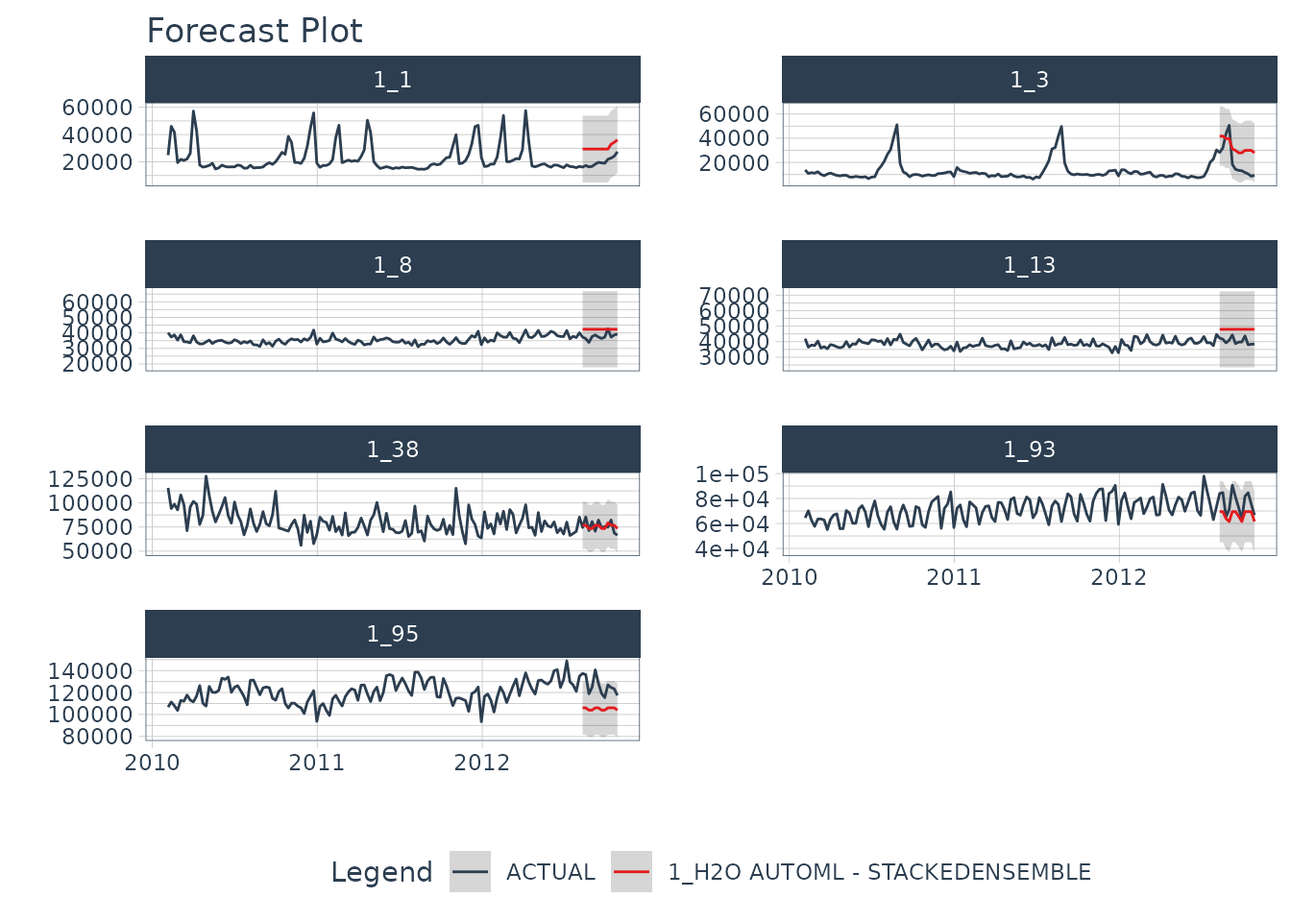
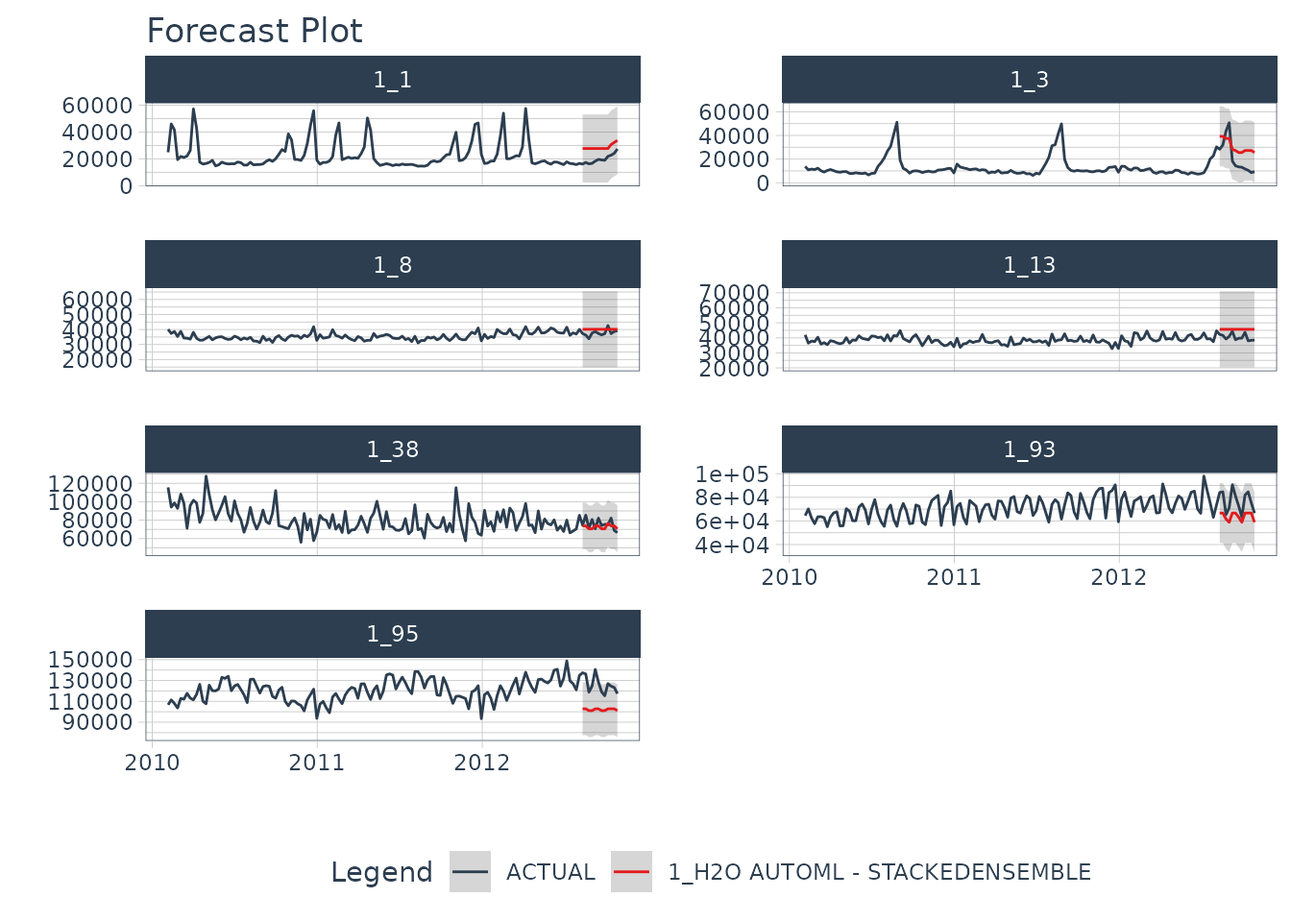
Built site for modeltime.h2o: 0.1.0@7222709

diff --git a/articles/getting-started.html b/articles/getting-started.html
@@ -167,19 +167,19 @@
 <span class="co">#&gt; H2O is not running yet, starting it now...</span>
 <span class="co">#&gt; </span>
 <span class="co">#&gt; Note:  In case of errors look at the following log files:</span>
-<span class="co">#&gt;     /tmp/RtmpBDLtlY/file43ff559d099a/h2o_runner_started_from_r.out</span>
-<span class="co">#&gt;     /tmp/RtmpBDLtlY/file43ff18661f8a/h2o_runner_started_from_r.err</span>
+<span class="co">#&gt;     /tmp/RtmpX6YemH/file44b6855ee52/h2o_runner_started_from_r.out</span>
+<span class="co">#&gt;     /tmp/RtmpX6YemH/file44b6563da7d8/h2o_runner_started_from_r.err</span>
 <span class="co">#&gt; </span>
 <span class="co">#&gt; </span>
-<span class="co">#&gt; Starting H2O JVM and connecting: ... Connection successful!</span>
+<span class="co">#&gt; Starting H2O JVM and connecting: .... Connection successful!</span>
 <span class="co">#&gt; </span>
 <span class="co">#&gt; R is connected to the H2O cluster: </span>
-<span class="co">#&gt;     H2O cluster uptime:         2 seconds 381 milliseconds </span>
+<span class="co">#&gt;     H2O cluster uptime:         2 seconds 800 milliseconds </span>
 <span class="co">#&gt;     H2O cluster timezone:       UTC </span>
 <span class="co">#&gt;     H2O data parsing timezone:  UTC </span>
 <span class="co">#&gt;     H2O cluster version:        3.32.0.1 </span>
-<span class="co">#&gt;     H2O cluster version age:    5 months and 4 days !!! </span>
-<span class="co">#&gt;     H2O cluster name:           H2O_started_from_R_runner_jjy202 </span>
+<span class="co">#&gt;     H2O cluster version age:    5 months and 6 days !!! </span>
+<span class="co">#&gt;     H2O cluster name:           H2O_started_from_R_runner_nzs383 </span>
 <span class="co">#&gt;     H2O cluster total nodes:    1 </span>
 <span class="co">#&gt;     H2O cluster total memory:   1.51 GB </span>
 <span class="co">#&gt;     H2O cluster total cores:    2 </span>
@@ -230,13 +230,13 @@
 <span id="cb6-9"><a href="#cb6-9"></a>  <span class="op">|</span><span class="st">                                                                            </span></span>
 <span id="cb6-10"><a href="#cb6-10"></a><span class="st">  </span><span class="er">|</span><span class="st">                                                                      </span><span class="er">|</span><span class="st">   </span><span class="dv">0</span>%</span>
 <span id="cb6-11"><a href="#cb6-11"></a>  <span class="op">|</span><span class="st">                                                                            </span></span>
-<span id="cb6-12"><a href="#cb6-12"></a><span class="st">  </span><span class="er">|====</span><span class="st">                                                                  </span><span class="er">|</span><span class="st">   </span><span class="dv">6</span>%</span>
+<span id="cb6-12"><a href="#cb6-12"></a><span class="st">  </span><span class="er">|===</span><span class="st">                                                                   </span><span class="er">|</span><span class="st">   </span><span class="dv">5</span>%</span>
 <span id="cb6-13"><a href="#cb6-13"></a>  <span class="op">|</span><span class="st">                                                                            </span></span>
-<span id="cb6-14"><a href="#cb6-14"></a><span class="st">  </span><span class="er">|===================</span><span class="st">                                                   </span><span class="er">|</span><span class="st">  </span><span class="dv">27</span>%</span>
+<span id="cb6-14"><a href="#cb6-14"></a><span class="st">  </span><span class="er">|==================</span><span class="st">                                                    </span><span class="er">|</span><span class="st">  </span><span class="dv">25</span>%</span>
 <span id="cb6-15"><a href="#cb6-15"></a>  <span class="op">|</span><span class="st">                                                                            </span></span>
-<span id="cb6-16"><a href="#cb6-16"></a><span class="st">  </span><span class="er">|=================================</span><span class="st">                                     </span><span class="er">|</span><span class="st">  </span><span class="dv">47</span>%</span>
+<span id="cb6-16"><a href="#cb6-16"></a><span class="st">  </span><span class="er">|================================</span><span class="st">                                      </span><span class="er">|</span><span class="st">  </span><span class="dv">46</span>%</span>
 <span id="cb6-17"><a href="#cb6-17"></a>  <span class="op">|</span><span class="st">                                                                            </span></span>
-<span id="cb6-18"><a href="#cb6-18"></a><span class="st">  </span><span class="er">|===============================================</span><span class="st">                       </span><span class="er">|</span><span class="st">  </span><span class="dv">67</span>%</span>
+<span id="cb6-18"><a href="#cb6-18"></a><span class="st">  </span><span class="er">|==============================================</span><span class="st">                        </span><span class="er">|</span><span class="st">  </span><span class="dv">66</span>%</span>
 <span id="cb6-19"><a href="#cb6-19"></a>  <span class="op">|</span><span class="st">                                                                            </span></span>
 <span id="cb6-20"><a href="#cb6-20"></a><span class="st">  </span><span class="er">|======================================================================|</span><span class="st"> </span><span class="dv">100</span>%</span>
 <span id="cb6-21"><a href="#cb6-21"></a><span class="co">#&gt; </span></span>
@@ -245,22 +245,22 @@
 <span id="cb6-24"><a href="#cb6-24"></a>  <span class="op">|</span><span class="st">                                                                            </span></span>
 <span id="cb6-25"><a href="#cb6-25"></a><span class="st">  </span><span class="er">|======================================================================|</span><span class="st"> </span><span class="dv">100</span>%</span>
 <span id="cb6-26"><a href="#cb6-26"></a><span class="co">#&gt;                                           model_id mean_residual_deviance</span></span>
-<span id="cb6-27"><a href="#cb6-27"></a><span class="co">#&gt; 1 StackedEnsemble_AllModels_AutoML_20210313_134133              420778174</span></span>
-<span id="cb6-28"><a href="#cb6-28"></a><span class="co">#&gt; 2                 XGBoost_2_AutoML_20210313_134133             1002242805</span></span>
-<span id="cb6-29"><a href="#cb6-29"></a><span class="co">#&gt; 3                 XGBoost_3_AutoML_20210313_134133             1004024439</span></span>
-<span id="cb6-30"><a href="#cb6-30"></a><span class="co">#&gt; 4                 XGBoost_1_AutoML_20210313_134133             1832060096</span></span>
+<span id="cb6-27"><a href="#cb6-27"></a><span class="co">#&gt; 1 StackedEnsemble_AllModels_AutoML_20210314_215223              386531186</span></span>
+<span id="cb6-28"><a href="#cb6-28"></a><span class="co">#&gt; 2                 XGBoost_2_AutoML_20210314_215223              774274696</span></span>
+<span id="cb6-29"><a href="#cb6-29"></a><span class="co">#&gt; 3                 XGBoost_3_AutoML_20210314_215223              816368892</span></span>
+<span id="cb6-30"><a href="#cb6-30"></a><span class="co">#&gt; 4                 XGBoost_1_AutoML_20210314_215223             1817098993</span></span>
 <span id="cb6-31"><a href="#cb6-31"></a><span class="co">#&gt;       rmse        mse      mae     rmsle</span></span>
-<span id="cb6-32"><a href="#cb6-32"></a><span class="co">#&gt; 1 20512.88  420778174 15817.72 0.4505745</span></span>
-<span id="cb6-33"><a href="#cb6-33"></a><span class="co">#&gt; 2 31658.22 1002242805 21681.67 0.7980015</span></span>
-<span id="cb6-34"><a href="#cb6-34"></a><span class="co">#&gt; 3 31686.34 1004024439 21494.40 0.7868849</span></span>
-<span id="cb6-35"><a href="#cb6-35"></a><span class="co">#&gt; 4 42802.57 1832060096 32716.41 1.1025323</span></span>
+<span id="cb6-32"><a href="#cb6-32"></a><span class="co">#&gt; 1 19660.40  386531186 14937.70 0.4300007</span></span>
+<span id="cb6-33"><a href="#cb6-33"></a><span class="co">#&gt; 2 27825.79  774274696 19014.82 0.6527556</span></span>
+<span id="cb6-34"><a href="#cb6-34"></a><span class="co">#&gt; 3 28572.17  816368892 19963.71 0.6560465</span></span>
+<span id="cb6-35"><a href="#cb6-35"></a><span class="co">#&gt; 4 42627.44 1817098993 32178.74 1.1009060</span></span>
 <span id="cb6-36"><a href="#cb6-36"></a><span class="co">#&gt; </span></span>
 <span id="cb6-37"><a href="#cb6-37"></a><span class="co">#&gt; [4 rows x 6 columns]</span></span>
 <span id="cb6-38"><a href="#cb6-38"></a></span>
 <span id="cb6-39"><a href="#cb6-39"></a>model_fitted</span>
 <span id="cb6-40"><a href="#cb6-40"></a><span class="co">#&gt; parsnip model object</span></span>
 <span id="cb6-41"><a href="#cb6-41"></a><span class="co">#&gt; </span></span>
-<span id="cb6-42"><a href="#cb6-42"></a><span class="co">#&gt; Fit time:  13.7s </span></span>
+<span id="cb6-42"><a href="#cb6-42"></a><span class="co">#&gt; Fit time:  13.1s </span></span>
 <span id="cb6-43"><a href="#cb6-43"></a><span class="co">#&gt; </span></span>
 <span id="cb6-44"><a href="#cb6-44"></a><span class="co">#&gt; H2O AutoML - Stackedensemble</span></span>
 <span id="cb6-45"><a href="#cb6-45"></a><span class="co">#&gt; --------</span></span>
@@ -268,7 +268,7 @@
 <span id="cb6-47"><a href="#cb6-47"></a><span class="co">#&gt; ==============</span></span>
 <span id="cb6-48"><a href="#cb6-48"></a><span class="co">#&gt; </span></span>
 <span id="cb6-49"><a href="#cb6-49"></a><span class="co">#&gt; H2ORegressionModel: stackedensemble</span></span>
-<span id="cb6-50"><a href="#cb6-50"></a><span class="co">#&gt; Model ID:  StackedEnsemble_AllModels_AutoML_20210313_134133 </span></span>
+<span id="cb6-50"><a href="#cb6-50"></a><span class="co">#&gt; Model ID:  StackedEnsemble_AllModels_AutoML_20210314_215223 </span></span>
 <span id="cb6-51"><a href="#cb6-51"></a><span class="co">#&gt; Number of Base Models: 3</span></span>
 <span id="cb6-52"><a href="#cb6-52"></a><span class="co">#&gt; </span></span>
 <span id="cb6-53"><a href="#cb6-53"></a><span class="co">#&gt; Base Models (count by algorithm type):</span></span>
@@ -289,11 +289,11 @@
 <span id="cb6-68"><a href="#cb6-68"></a><span class="co">#&gt; H2ORegressionMetrics: stackedensemble</span></span>
 <span id="cb6-69"><a href="#cb6-69"></a><span class="co">#&gt; ** Reported on training data. **</span></span>
 <span id="cb6-70"><a href="#cb6-70"></a><span class="co">#&gt; </span></span>
-<span id="cb6-71"><a href="#cb6-71"></a><span class="co">#&gt; MSE:  166657232</span></span>
-<span id="cb6-72"><a href="#cb6-72"></a><span class="co">#&gt; RMSE:  12909.58</span></span>
-<span id="cb6-73"><a href="#cb6-73"></a><span class="co">#&gt; MAE:  11007.53</span></span>
-<span id="cb6-74"><a href="#cb6-74"></a><span class="co">#&gt; RMSLE:  0.4562975</span></span>
-<span id="cb6-75"><a href="#cb6-75"></a><span class="co">#&gt; Mean Residual Deviance :  166657232</span></span>
+<span id="cb6-71"><a href="#cb6-71"></a><span class="co">#&gt; MSE:  164435219</span></span>
+<span id="cb6-72"><a href="#cb6-72"></a><span class="co">#&gt; RMSE:  12823.23</span></span>
+<span id="cb6-73"><a href="#cb6-73"></a><span class="co">#&gt; MAE:  10518.23</span></span>
+<span id="cb6-74"><a href="#cb6-74"></a><span class="co">#&gt; RMSLE:  0.4178878</span></span>
+<span id="cb6-75"><a href="#cb6-75"></a><span class="co">#&gt; Mean Residual Deviance :  164435219</span></span>
 <span id="cb6-76"><a href="#cb6-76"></a><span class="co">#&gt; </span></span>
 <span id="cb6-77"><a href="#cb6-77"></a><span class="co">#&gt; </span></span>
 <span id="cb6-78"><a href="#cb6-78"></a><span class="co">#&gt; </span></span>
@@ -301,11 +301,11 @@
 <span id="cb6-80"><a href="#cb6-80"></a><span class="co">#&gt; ** Reported on cross-validation data. **</span></span>
 <span id="cb6-81"><a href="#cb6-81"></a><span class="co">#&gt; ** 5-fold cross-validation on training data (Metrics computed for combined holdout predictions) **</span></span>
 <span id="cb6-82"><a href="#cb6-82"></a><span class="co">#&gt; </span></span>
-<span id="cb6-83"><a href="#cb6-83"></a><span class="co">#&gt; MSE:  420778174</span></span>
-<span id="cb6-84"><a href="#cb6-84"></a><span class="co">#&gt; RMSE:  20512.88</span></span>
-<span id="cb6-85"><a href="#cb6-85"></a><span class="co">#&gt; MAE:  15817.72</span></span>
-<span id="cb6-86"><a href="#cb6-86"></a><span class="co">#&gt; RMSLE:  0.4505745</span></span>
-<span id="cb6-87"><a href="#cb6-87"></a><span class="co">#&gt; Mean Residual Deviance :  420778174</span></span></code></pre></div>
+<span id="cb6-83"><a href="#cb6-83"></a><span class="co">#&gt; MSE:  386531186</span></span>
+<span id="cb6-84"><a href="#cb6-84"></a><span class="co">#&gt; RMSE:  19660.4</span></span>
+<span id="cb6-85"><a href="#cb6-85"></a><span class="co">#&gt; MAE:  14937.7</span></span>
+<span id="cb6-86"><a href="#cb6-86"></a><span class="co">#&gt; RMSLE:  0.4300007</span></span>
+<span id="cb6-87"><a href="#cb6-87"></a><span class="co">#&gt; Mean Residual Deviance :  386531186</span></span></code></pre></div>
 <p>Finally, we predict on the test dataset:</p>
 <div class="sourceCode" id="cb7"><pre class="sourceCode r"><code class="sourceCode r"><span id="cb7-1"><a href="#cb7-1"></a><span class="kw">predict</span>(model_fitted, test_tbl)</span>
 <span id="cb7-2"><a href="#cb7-2"></a><span class="co">#&gt; </span></span>
@@ -321,16 +321,16 @@
 <span id="cb7-12"><a href="#cb7-12"></a><span class="co">#&gt; # A tibble: 84 x 1</span></span>
 <span id="cb7-13"><a href="#cb7-13"></a><span class="co">#&gt;      .pred</span></span>
 <span id="cb7-14"><a href="#cb7-14"></a><span class="co">#&gt;      &lt;dbl&gt;</span></span>
-<span id="cb7-15"><a href="#cb7-15"></a><span class="co">#&gt;  1  29357.</span></span>
-<span id="cb7-16"><a href="#cb7-16"></a><span class="co">#&gt;  2  41772.</span></span>
-<span id="cb7-17"><a href="#cb7-17"></a><span class="co">#&gt;  3  42310.</span></span>
-<span id="cb7-18"><a href="#cb7-18"></a><span class="co">#&gt;  4  47978.</span></span>
-<span id="cb7-19"><a href="#cb7-19"></a><span class="co">#&gt;  5  76800.</span></span>
-<span id="cb7-20"><a href="#cb7-20"></a><span class="co">#&gt;  6  69482.</span></span>
-<span id="cb7-21"><a href="#cb7-21"></a><span class="co">#&gt;  7 106034.</span></span>
-<span id="cb7-22"><a href="#cb7-22"></a><span class="co">#&gt;  8  29357.</span></span>
-<span id="cb7-23"><a href="#cb7-23"></a><span class="co">#&gt;  9  41772.</span></span>
-<span id="cb7-24"><a href="#cb7-24"></a><span class="co">#&gt; 10  42310.</span></span>
+<span id="cb7-15"><a href="#cb7-15"></a><span class="co">#&gt;  1  27725.</span></span>
+<span id="cb7-16"><a href="#cb7-16"></a><span class="co">#&gt;  2  39179.</span></span>
+<span id="cb7-17"><a href="#cb7-17"></a><span class="co">#&gt;  3  40141.</span></span>
+<span id="cb7-18"><a href="#cb7-18"></a><span class="co">#&gt;  4  45689.</span></span>
+<span id="cb7-19"><a href="#cb7-19"></a><span class="co">#&gt;  5  73795.</span></span>
+<span id="cb7-20"><a href="#cb7-20"></a><span class="co">#&gt;  6  66688.</span></span>
+<span id="cb7-21"><a href="#cb7-21"></a><span class="co">#&gt;  7 102829.</span></span>
+<span id="cb7-22"><a href="#cb7-22"></a><span class="co">#&gt;  8  27725.</span></span>
+<span id="cb7-23"><a href="#cb7-23"></a><span class="co">#&gt;  9  39179.</span></span>
+<span id="cb7-24"><a href="#cb7-24"></a><span class="co">#&gt; 10  40141.</span></span>
 <span id="cb7-25"><a href="#cb7-25"></a><span class="co">#&gt; # … with 74 more rows</span></span></code></pre></div>
 </div>
 <div id="modeltime-workflow" class="section level2">
@@ -423,13 +423,13 @@
 <span id="cb11-9"><a href="#cb11-9"></a>  <span class="op">|</span><span class="st">                                                                            </span></span>
 <span id="cb11-10"><a href="#cb11-10"></a><span class="st">  </span><span class="er">|</span><span class="st">                                                                      </span><span class="er">|</span><span class="st">   </span><span class="dv">0</span>%</span>
 <span id="cb11-11"><a href="#cb11-11"></a>  <span class="op">|</span><span class="st">                                                                            </span></span>
-<span id="cb11-12"><a href="#cb11-12"></a><span class="st">  </span><span class="er">|=</span><span class="st">                                                                     </span><span class="er">|</span><span class="st">   </span><span class="dv">1</span>%</span>
+<span id="cb11-12"><a href="#cb11-12"></a><span class="st">  </span><span class="er">|==</span><span class="st">                                                                    </span><span class="er">|</span><span class="st">   </span><span class="dv">3</span>%</span>
 <span id="cb11-13"><a href="#cb11-13"></a>  <span class="op">|</span><span class="st">                                                                            </span></span>
-<span id="cb11-14"><a href="#cb11-14"></a><span class="st">  </span><span class="er">|===============</span><span class="st">                                                       </span><span class="er">|</span><span class="st">  </span><span class="dv">21</span>%</span>
+<span id="cb11-14"><a href="#cb11-14"></a><span class="st">  </span><span class="er">|=================</span><span class="st">                                                     </span><span class="er">|</span><span class="st">  </span><span class="dv">24</span>%</span>
 <span id="cb11-15"><a href="#cb11-15"></a>  <span class="op">|</span><span class="st">                                                                            </span></span>
-<span id="cb11-16"><a href="#cb11-16"></a><span class="st">  </span><span class="er">|=============================</span><span class="st">                                         </span><span class="er">|</span><span class="st">  </span><span class="dv">42</span>%</span>
+<span id="cb11-16"><a href="#cb11-16"></a><span class="st">  </span><span class="er">|===============================</span><span class="st">                                       </span><span class="er">|</span><span class="st">  </span><span class="dv">44</span>%</span>
 <span id="cb11-17"><a href="#cb11-17"></a>  <span class="op">|</span><span class="st">                                                                            </span></span>
-<span id="cb11-18"><a href="#cb11-18"></a><span class="st">  </span><span class="er">|============================================</span><span class="st">                          </span><span class="er">|</span><span class="st">  </span><span class="dv">62</span>%</span>
+<span id="cb11-18"><a href="#cb11-18"></a><span class="st">  </span><span class="er">|=============================================</span><span class="st">                         </span><span class="er">|</span><span class="st">  </span><span class="dv">64</span>%</span>
 <span id="cb11-19"><a href="#cb11-19"></a>  <span class="op">|</span><span class="st">                                                                            </span></span>
 <span id="cb11-20"><a href="#cb11-20"></a><span class="st">  </span><span class="er">|======================================================================|</span><span class="st"> </span><span class="dv">100</span>%</span>
 <span id="cb11-21"><a href="#cb11-21"></a><span class="co">#&gt; </span></span>
@@ -438,15 +438,15 @@
 <span id="cb11-24"><a href="#cb11-24"></a>  <span class="op">|</span><span class="st">                                                                            </span></span>
 <span id="cb11-25"><a href="#cb11-25"></a><span class="st">  </span><span class="er">|======================================================================|</span><span class="st"> </span><span class="dv">100</span>%</span>
 <span id="cb11-26"><a href="#cb11-26"></a><span class="co">#&gt;                                           model_id mean_residual_deviance</span></span>
-<span id="cb11-27"><a href="#cb11-27"></a><span class="co">#&gt; 1 StackedEnsemble_AllModels_AutoML_20210313_134152               87547703</span></span>
-<span id="cb11-28"><a href="#cb11-28"></a><span class="co">#&gt; 2                 XGBoost_3_AutoML_20210313_134152             2198195829</span></span>
-<span id="cb11-29"><a href="#cb11-29"></a><span class="co">#&gt; 3                 XGBoost_2_AutoML_20210313_134152             2202249547</span></span>
-<span id="cb11-30"><a href="#cb11-30"></a><span class="co">#&gt; 4                 XGBoost_1_AutoML_20210313_134152             2261584439</span></span>
-<span id="cb11-31"><a href="#cb11-31"></a><span class="co">#&gt;        rmse        mse       mae     rmsle</span></span>
-<span id="cb11-32"><a href="#cb11-32"></a><span class="co">#&gt; 1  9356.693   87547703  6990.738 0.2292359</span></span>
-<span id="cb11-33"><a href="#cb11-33"></a><span class="co">#&gt; 2 46884.921 2198195829 38428.029 1.2153485</span></span>
-<span id="cb11-34"><a href="#cb11-34"></a><span class="co">#&gt; 3 46928.132 2202249547 38496.136 1.2258330</span></span>
-<span id="cb11-35"><a href="#cb11-35"></a><span class="co">#&gt; 4 47556.119 2261584439 38597.183 1.2282724</span></span>
+<span id="cb11-27"><a href="#cb11-27"></a><span class="co">#&gt; 1 StackedEnsemble_AllModels_AutoML_20210314_215241              205010876</span></span>
+<span id="cb11-28"><a href="#cb11-28"></a><span class="co">#&gt; 2                 XGBoost_3_AutoML_20210314_215241             1432960432</span></span>
+<span id="cb11-29"><a href="#cb11-29"></a><span class="co">#&gt; 3                 XGBoost_2_AutoML_20210314_215241             1802082476</span></span>
+<span id="cb11-30"><a href="#cb11-30"></a><span class="co">#&gt; 4                 XGBoost_1_AutoML_20210314_215241             2261584439</span></span>
+<span id="cb11-31"><a href="#cb11-31"></a><span class="co">#&gt;       rmse        mse       mae     rmsle</span></span>
+<span id="cb11-32"><a href="#cb11-32"></a><span class="co">#&gt; 1 14318.20  205010876  9548.185 0.2207454</span></span>
+<span id="cb11-33"><a href="#cb11-33"></a><span class="co">#&gt; 2 37854.46 1432960432 27916.280 0.9543609</span></span>
+<span id="cb11-34"><a href="#cb11-34"></a><span class="co">#&gt; 3 42450.94 1802082476 32777.797 1.0998055</span></span>
+<span id="cb11-35"><a href="#cb11-35"></a><span class="co">#&gt; 4 47556.12 2261584439 38597.183 1.2282724</span></span>
 <span id="cb11-36"><a href="#cb11-36"></a><span class="co">#&gt; </span></span>
 <span id="cb11-37"><a href="#cb11-37"></a><span class="co">#&gt; [4 rows x 6 columns]</span></span>
 <span id="cb11-38"><a href="#cb11-38"></a></span>

diff --git a/index.html b/index.html
@@ -120,10 +120,18 @@
 <p>With the Modeltime Ecosystem, it’s easy to forecast at scale. This forecast was created with <strong>H2O AutoML</strong>. Try it out in <a href="https://business-science.github.io/modeltime.h2o/articles/getting-started.html">Getting Started with Modeltime H2O</a>.</p>
 <p><img src="reference/figures/h2o_forecast_plot.png" width="100%"></p>
 </div>
-<div id="meet-the-forecasting-ecosystem" class="section level2">
+<div id="meet-the-modeltime-ecosystem" class="section level2">
 <h2 class="hasAnchor">
-<a href="#meet-the-forecasting-ecosystem" class="anchor"></a>Meet the Forecasting Ecosystem</h2>
-<p>Modeltime H2O is part of a <strong>growing ecosystem</strong> of Modeltime forecasting packages.</p>
+<a href="#meet-the-modeltime-ecosystem" class="anchor"></a>Meet the modeltime ecosystem</h2>
+<blockquote>
+<p>Learn a growing ecosystem of forecasting packages</p>
+</blockquote>
+<div class="figure" style="text-align: center">
+<img src="reference/figures/modeltime_ecosystem.jpg" alt="The modeltime ecosystem is growing" width="100%"><p class="caption">
+The modeltime ecosystem is growing
+</p>
+</div>
+<p>Modeltime is part of a <strong>growing ecosystem</strong> of Modeltime forecasting packages.</p>
 <ul>
 <li><p><a href="https://business-science.github.io/modeltime/">Learn Modeltime (Machine Learning)</a></p></li>
 <li><p><a href="https://business-science.github.io/timetk/">Learn Timetk (Feature Engineering, Visualization)</a></p></li>
@@ -133,21 +141,24 @@
 <li><p><a href="https://business-science.github.io/modeltime.resample/">Learn Modeltime Resample (Backtesting)</a></p></li>
 </ul>
 </div>
-<div id="high-performance-forecasting-course" class="section level2">
+<div id="take-the-high-performance-forecasting-course" class="section level2">
 <h2 class="hasAnchor">
-<a href="#high-performance-forecasting-course" class="anchor"></a>High-Performance Forecasting Course</h2>
-<p><a href="https://www.youtube.com/embed/elQb4VzRINg" target="_blank"><img src="http://img.youtube.com/vi/elQb4VzRINg/0.jpg" alt="Anomalize" width="100%" height="450"></a></p>
-<p><a href="https://youtu.be/elQb4VzRINg"><em>My Talk on High-Performance Time Series Forecasting</em></a></p>
+<a href="#take-the-high-performance-forecasting-course" class="anchor"></a>Take the High-Performance Forecasting Course</h2>
+<blockquote>
+<p>Become the forecasting expert for your organization</p>
+</blockquote>
+<p><a href="https://university.business-science.io/p/ds4b-203-r-high-performance-time-series-forecasting/" target="_blank"><img src="https://www.filepicker.io/api/file/jay1WUozSWCVHfFBEil3" alt="High-Performance Time Series Forecasting Course" width="100%"></a></p>
+<p><a href="https://university.business-science.io/p/ds4b-203-r-high-performance-time-series-forecasting/"><em>High-Performance Time Series Course</em></a></p>
 <div id="time-series-is-changing" class="section level3">
 <h3 class="hasAnchor">
 <a href="#time-series-is-changing" class="anchor"></a>Time Series is Changing</h3>
 <p>Time series is changing. <strong>Businesses now need 10,000+ time series forecasts every day.</strong> This is what I call a <em>High-Performance Time Series Forecasting System (HPTSF)</em> - Accurate, Robust, and Scalable Forecasting.</p>
-<p><strong>High-Performance Forecasting Systems will save companies MILLIONS of dollars.</strong> Imagine what will happen to your career if you can provide your organization a “High-Performance Time Series Forecasting System” (HPTSF System).</p>
+<p><strong>High-Performance Forecasting Systems will save companies by improving accuracy and scalability.</strong> Imagine what will happen to your career if you can provide your organization a “High-Performance Time Series Forecasting System” (HPTSF System).</p>
 </div>
 <div id="how-to-learn-high-performance-time-series-forecasting" class="section level3">
 <h3 class="hasAnchor">
 <a href="#how-to-learn-high-performance-time-series-forecasting" class="anchor"></a>How to Learn High-Performance Time Series Forecasting</h3>
-<p>I teach how to build a HPTFS System in my <strong>High-Performance Time Series Forecasting Course</strong>. If interested in learning Scalable High-Performance Forecasting Strategies then <a href="https://university.business-science.io/p/ds4b-203-r-high-performance-time-series-forecasting">take my Time Series Forecasting Course</a>. You will learn:</p>
+<p>I teach how to build a HPTFS System in my <a href="https://university.business-science.io/p/ds4b-203-r-high-performance-time-series-forecasting"><strong>High-Performance Time Series Forecasting Course</strong></a>. You will learn:</p>
 <ul>
 <li>
 <strong>Time Series Machine Learning</strong> (cutting-edge) with <code>Modeltime</code> - 30+ Models (Prophet, ARIMA, XGBoost, Random Forest, &amp; many more)</li>
@@ -165,8 +176,11 @@
 <strong>Scalable Forecasting</strong> - Forecast 1000+ time series in parallel</li>
 <li>and more.</li>
 </ul>
-<p class="text-center" style="font-size:30px;">
-<a href="https://university.business-science.io/p/ds4b-203-r-high-performance-time-series-forecasting">Unlock the High-Performance Time Series Forecasting Course</a>
+<p class="text-center" style="font-size:24px;">
+Become the Time Series Expert for your organization.
+</p>
+<br><p class="text-center" style="font-size:30px;">
+<a href="https://university.business-science.io/p/ds4b-203-r-high-performance-time-series-forecasting">Take the High-Performance Time Series Forecasting Course</a>
 </p>
 </div>
 </div>
